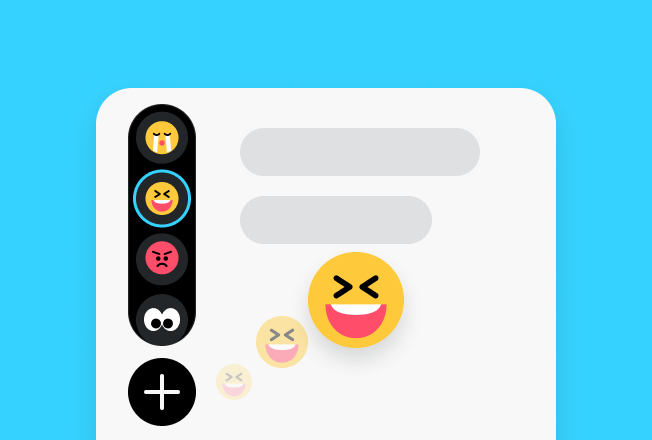
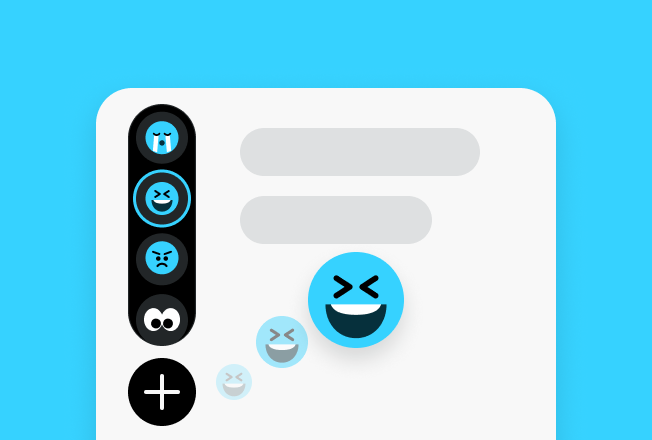
iOS 아래 탭을 앱 전체 하나로 고정(피그마 760선), 온보딩 이모지 프라이머리 색, 접힌 슬롯, 새우깡 중복 제거

diff --git a/ios/DRRRK/App/RootView.swift b/ios/DRRRK/App/RootView.swift
@@ -62,6 +62,7 @@ struct AppShell: View {
             .navigationDestination(for: Route.self) { ScreenRegistry.view(for: $0) }
             .toolbar(.hidden, for: .navigationBar)
         }
+        .overlay { GlobalBottomNav().allowsHitTesting(Router.navMode(for: router.current) == .normal) }
         .fullScreenCover(item: $router.modal) { r in
             ScreenRegistry.view(for: r)
                 .presentationBackground(.clear)
@@ -100,9 +101,44 @@ struct BottomNav: View {
             }
             .padding(.top, 11)
             .padding(.horizontal, 20)
+            Spacer(minLength: 0)
         }
-        .padding(.bottom, 8)
-        .background(DS.Palette.bgSurface.ignoresSafeArea(edges: .bottom))
+        // 피그마 bottom_navigation은 홈 표시줄 자리까지 포함해 84 높이다. 화면 바닥에 붙이고 키보드에도 움직이지 않는다.
+        .frame(maxWidth: .infinity)
+        .frame(height: BottomNav.height, alignment: .top)
+        .background(DS.Palette.bgSurface)
+        .ignoresSafeArea(.all, edges: .bottom)
+    }
+
+    /// 피그마 화면(390 x 844)은 폭에 맞춰 키워 그린다. 아래 탭 윗선도 피그마 y 760이 키워진 자리에 오도록,
+    /// 높이는 화면 높이에서 760 x 배율을 뺀 값이다(iPhone 17: 874 - 783.4 = 90.6).
+    static var height: CGFloat {
+        let b = UIScreen.main.bounds
+        return max(84, b.height - 760 * b.width / 390)
+    }
+}
+
+/// 앱 전체에 하나만 있는 아래 탭. 탭을 바꾸거나 화면을 넘겨도 같은 자리에 머문다.
+struct GlobalBottomNav: View {
+    @Environment(Router.self) private var router
+
+    var body: some View {
+        let mode = Router.navMode(for: router.current)
+        ZStack(alignment: .bottom) {
+            if mode != .none, !router.navLocal {
+                BottomNav()
+                    .overlay {
+                        if mode == .dim {
+                            Color.black.opacity(0.6).ignoresSafeArea(.all, edges: .bottom).allowsHitTesting(false)
+                        }
+                    }
+                    .allowsHitTesting(mode == .normal)
+                    .transition(.opacity)
+            }
+        }
+        .frame(maxWidth: .infinity, maxHeight: .infinity, alignment: .bottom)
+        .ignoresSafeArea(.all, edges: .bottom)
+        .animation(.timingCurve(0.2, 0, 0, 1, duration: 0.18), value: mode)
     }
 }
 

diff --git a/ios/DRRRK/Features/My/MyScreens.swift b/ios/DRRRK/Features/My/MyScreens.swift
@@ -94,7 +94,10 @@ private struct MyHome: View {
                 MyShelfSheet { open($0) }
             }
 
-            VStack { Spacer(); BottomNav() }
+            // 평소에는 앱 전체 아래 탭이 보이고, 아이템 시트나 팝업이 열릴 때만 여기서 같은 자리에 그려 시트 아래에 깐다.
+            if router.navLocal {
+                BottomNav().frame(maxHeight: .infinity, alignment: .bottom)
+            }
 
             MySheet(isPresented: item != nil, height: 411, dim: 0.6, background: DS.Palette.bgSurface, onClose: closeItem) {
                 if let item {
@@ -117,6 +120,11 @@ private struct MyHome: View {
         }
         .ignoresSafeArea(edges: .top)
         .toolbar(.hidden, for: .navigationBar)
+        .onChange(of: item != nil || overlay == .skin, initial: true) { _, covered in
+            var t = Transaction(); t.disablesAnimations = true
+            withTransaction(t) { router.navLocal = covered }
+        }
+        .onDisappear { router.navLocal = false }
         .onAppear {
             overlay = startOverlay
             item = startItem

diff --git a/ios/DRRRK/App/Router.swift b/ios/DRRRK/App/Router.swift
@@ -52,6 +52,24 @@ final class Router {
     // 화면 위에 겹쳐 뜨는 시트와 창(미니 프로필, 신고, 차단). 뒤 화면이 그대로 비친다.
     var modal: Route?
     var enteredApp = false
+    /// 마이 화면에서 아이템 시트나 팝업이 아래 탭을 덮을 때만 true. 이때는 마이 화면이 같은 자리에 자기 탭을 그린다.
+    var navLocal = false
+
+    /// 지금 맨 위에 보이는 화면
+    var current: Route {
+        path.last ?? tab.root
+    }
+
+    enum NavMode: Equatable { case none, normal, dim }
+
+    /// 화면마다 아래 탭을 보일지. 온보딩은 어둡게 깔린 채로 보인다.
+    static func navMode(for r: Route) -> NavMode {
+        switch r {
+        case .home, .live, .community, .my, .mySkin, .myShelf, .myItem: .normal
+        case .onboardingTogether, .onboardingSolo: .dim
+        default: .none
+        }
+    }
 
     func push(_ r: Route) {
         path.append(r)

diff --git a/ios/DRRRK/Features/Home/HomeScreens.swift b/ios/DRRRK/Features/Home/HomeScreens.swift
@@ -106,7 +106,6 @@ struct HomeView: View {
                 HomeBackdrop()
                 sheet.at(0, sheetTop)
             }
-            BottomNav()
         }
         .toolbar(.hidden, for: .navigationBar)
         .onAppear {
@@ -426,9 +425,7 @@ private struct OnboardingDeck: View {
                     card.at(32, 213)
                 }
             }
-            .overlay(alignment: .bottom) {
-                BottomNav().allowsHitTesting(false).overlay(Color.black.opacity(0.6).allowsHitTesting(false))
-            }
+
         .toolbar(.hidden, for: .navigationBar)
     }
 

diff --git a/ios/DRRRK/App/ScreenRegistry.swift b/ios/DRRRK/App/ScreenRegistry.swift
@@ -50,9 +50,6 @@ struct PendingScreen: View {
             Text(title).suit(17, .bold).foregroundStyle(DS.Palette.textPrimary)
             Button("뒤로") { router.pop() }.suit(14).foregroundStyle(DS.Palette.brandPrimary)
             Spacer()
-            if tab {
-                BottomNav()
-            }
         }
         .frame(maxWidth: .infinity)
         .background(DS.Palette.bgSurface.ignoresSafeArea())

diff --git a/ios/DRRRK/Features/Community/CommunityScreens.swift b/ios/DRRRK/Features/Community/CommunityScreens.swift
@@ -56,7 +56,7 @@ struct CommunityView: View {
                 }
             }
             .scrollIndicators(.hidden)
-            BottomNav()
+            .contentMargins(.bottom, BottomNav.height - 34, for: .scrollContent)
         }
         .background(DS.Palette.bgSurface.ignoresSafeArea())
         .toolbar(.hidden, for: .navigationBar)

diff --git a/ios/DRRRK/Features/Live/LiveScreens.swift b/ios/DRRRK/Features/Live/LiveScreens.swift
@@ -56,7 +56,7 @@ struct LiveView: View {
                 }
             }
             .scrollIndicators(.hidden)
-            BottomNav()
+            .contentMargins(.bottom, BottomNav.height - 34, for: .scrollContent)
         }
         .background(DS.Palette.bgSurface.ignoresSafeArea())
         .toolbar(.hidden, for: .navigationBar)
